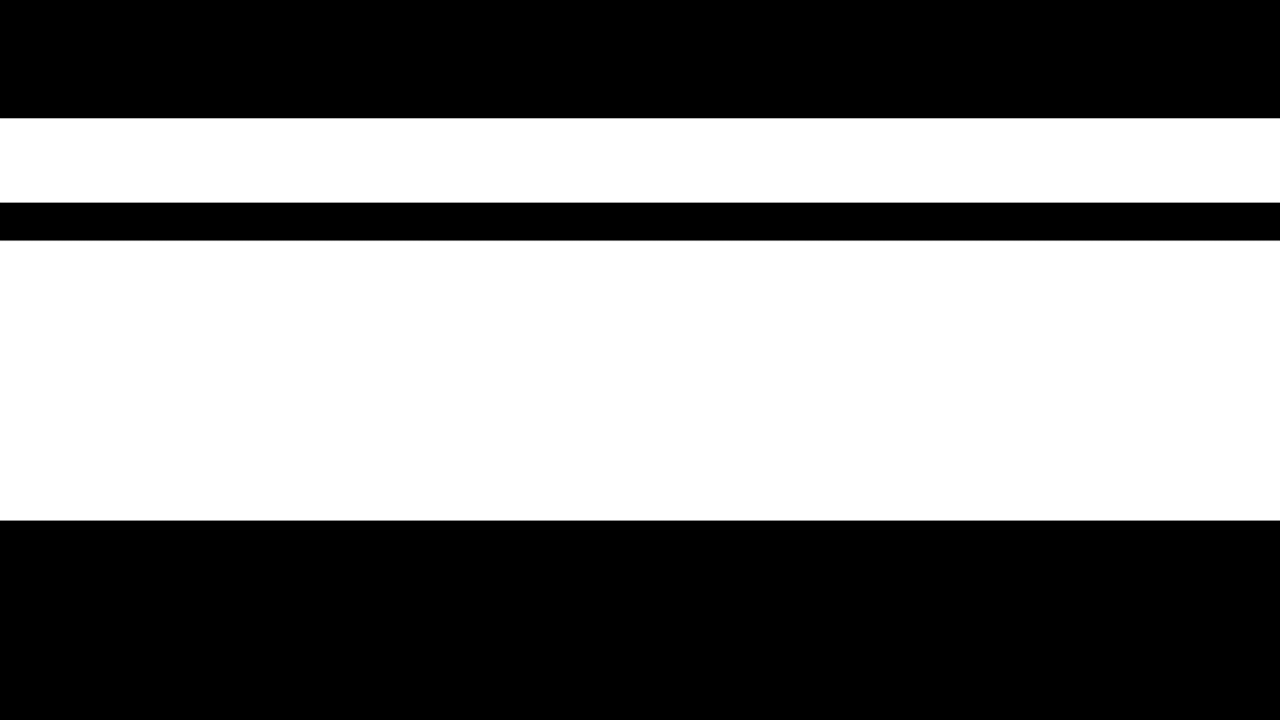
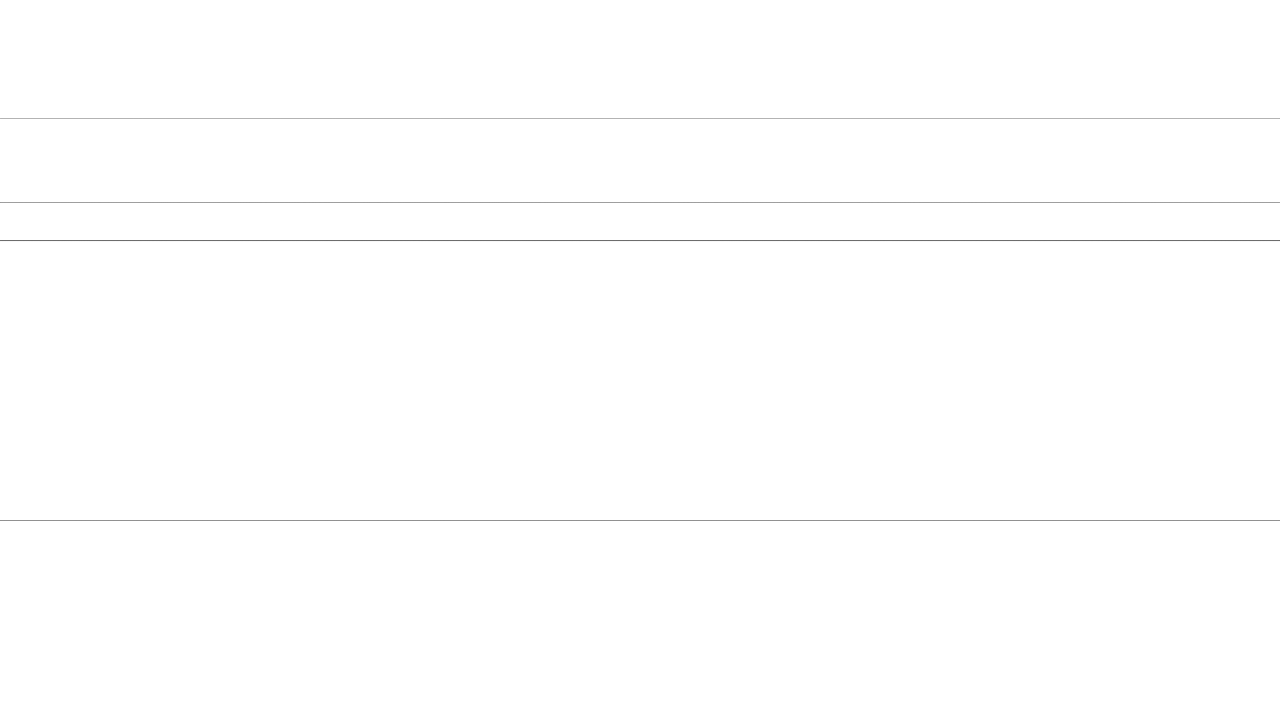
글리치 스크린 구현

diff --git a/GameApp/TitleFreddy.cpp b/GameApp/TitleFreddy.cpp
@@ -94,8 +94,6 @@ void TitleFreddy::RandomImageChange()
 	case 2:
 		titleFreddyImageRenderer_->SetImage("TitleFreddy_3.png", true);
 		break;
-	case 3:
-		break;
 	default:
 		break;
 	}
@@ -107,7 +105,20 @@ void TitleFreddy::RandomImageChange()
 		timeDice_ = randomGenerator_.RandomInt(0, 3);
 		generalInterTime_ = 0.0f;
 		facialChangeInterTime_ = 0.0f;
-		titleFreddyImageRenderer_->SetImage("TitleFreddy_0.png", true);
+		
+		switch (randomGenerator_.RandomInt(0,2))
+		{
+		case 0:
+		case 1:
+			titleFreddyImageRenderer_->SetImage("TitleFreddy_0.png", true);
+			break;
+		case 2:
+			titleFreddyImageRenderer_->SetImage("TitleFreddy_4.png", true);
+			break;
+		default:
+			break;
+		}
+
 		return;
 	}
 }

diff --git a/GameApp/UserGame_Resources.cpp b/GameApp/UserGame_Resources.cpp
@@ -84,6 +84,8 @@ void UserGame::ResourcesLoad()
 		GameEngineTexture* CCTVTexture = GameEngineTextureManager::GetInst().Find("CCTVAnimation.png");
 		CCTVTexture->Cut(5, 2);
 
+		GameEngineFolderTextureManager::GetInst().Load(imageDir.PathToPlusFileName("WhiteNoise"));
+		GameEngineFolderTextureManager::GetInst().Load(imageDir.PathToPlusFileName("ScanLine"));
 		GameEngineFolderTextureManager::GetInst().Load(imageDir.PathToPlusFileName("NoElec"));
 		GameEngineFolderTextureManager::GetInst().Load(imageDir.PathToPlusFileName("NoElecBlink"));
 		GameEngineFolderTextureManager::GetInst().Load(imageDir.PathToPlusFileName("NoElecFreddy"));

diff --git a/GameApp/ENUM.h b/GameApp/ENUM.h
@@ -12,6 +12,10 @@ enum class InGameCollisonType
 
 enum class RenderOrder
 {
+	FRONT,
+	FILTER0,
+	FILTER1,
+	FILTER2,
 	CCTV,
 
 	OBJECT0,
@@ -34,9 +38,7 @@ enum class UIRenderOrder
 	UI1,
 	UI0,
 
-	FILTER2,
-	FILTER1,
-	FILTER0,
+
 
 	FADE2,
 	FADE1,

diff --git a/GameApp/IntermissionController.cpp b/GameApp/IntermissionController.cpp
@@ -97,7 +97,7 @@ StateInfo IntermissionController::updateProceed(StateInfo _state)
 
 	if (3.0f <= deltaTime_)
 	{
-		fadeScreen_->StartFadeOut(3.0f);
+		fadeScreen_->StartFadeOut(2.5f);
 	}
 
 	if (true == fadeScreen_->isFullFadeOut_)
